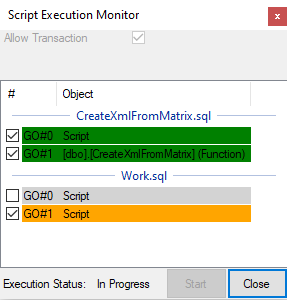
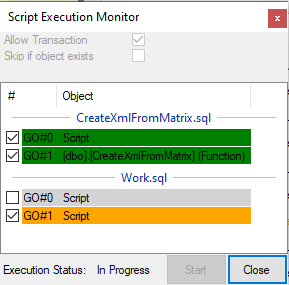
#19 Skip object creation if exists in DB - Adding check box to Script Execution Monitor - logic to set skip option to Script Loader - move script execution log logic from ScriptLoader to Script applier - creating script command enumeration to ensure the command strings are the same for both initiato

diff --git a/SqlScriptRunner/SqlScriptRunner/ScriptHandler/ScriptLoader.cs b/SqlScriptRunner/SqlScriptRunner/ScriptHandler/ScriptLoader.cs
@@ -7,6 +7,7 @@ using System.Data.SqlClient;
 using System.IO;
 using System.Linq;
 using System.Text;
+using System.Text.RegularExpressions;
 using System.Threading;
 using System.Threading.Tasks;
 using System.Windows.Forms;
@@ -29,6 +30,8 @@ namespace SqlScriptRunner.ScriptHandler
         public List<Script> ScriptFileList => scriptFileList;
         public bool WithTransaction { get; set; }
         public bool IsCompleted => !scriptSections?.Any(ss => ss.Status == null || ss.Status == ExecutionStatusEnum.Running) ?? true;
+
+        public bool SkipObjectIfExists { get; set; }
 
         private Action<string, LogLevelEnum?> LogAction;
         internal delegate void StatusCallBackDelegate(ScriptSection script);
@@ -138,30 +141,42 @@ namespace SqlScriptRunner.ScriptHandler
                         }
                         else
                         {
-                            currScriptSection.Status = (ExecutionStatusEnum)scriptApplyer.Execute(db, currScriptSection.OriginalContent, cancellationToken);
+                            currScriptSection.Status = (ExecutionStatusEnum)scriptApplyer.Execute(db, currScriptSection, cancellationToken);
                             if (currScriptSection.Status != ExecutionStatusEnum.Completed)
                             {
                                 // There could be several scenario why we should not abort the operation.
                                 // TODO: Inspect the error message from the script applier and inject a drop section or empty body creation before retry function and procedure creation.
                                 // TODO: Table types in use needs special handling to replace!
                                 // Example: Cannot drop type 'dbo.MatrixType' because it is being referenced by object 'CreateXmlFromMatrix'. There may be other objects that reference this type.
-
-                                message = $"Execution failed: '{currScriptSection.FilePath}', GO#{currScriptSection.SectionId}";
-                                currScriptSection.MessageLog?.Add(message);
-                                ExecutionLogAction?.Invoke(message, LogLevelEnum.Error);
-                                currScriptSection.MessageLog?.AddRange(scriptApplyer.Errors.Cast<SqlError>().Select(se => $"ERROR:{se.Message}"));
-                                if (WithTransaction)
+                                if (SkipObjectIfExists)
                                 {
-                                    scriptApplyer.RollBackTransaction();
-                                    message = "Rolling back all actions";
-                                    currScriptSection.MessageLog?.Add(message);
-                                    ExecutionLogAction?.Invoke(message, LogLevelEnum.Warn);
+                                    // check the log for specific error message look for error for existing object.
+                                    if (IsObjectAllreadyExistsError(currScriptSection))
+                                    {
+                                        currScriptSection.Status = ExecutionStatusEnum.Skipped;
+                                        message = $"Execution skipped: '{currScriptSection.FilePath}', GO#{currScriptSection.SectionId}";
+                                        currScriptSection.MessageLog?.Add(message);
+                                        ExecutionLogAction?.Invoke(message, LogLevelEnum.Warn);
+                                        statusCallBack.Invoke(currScriptSection);
+                                    }
                                 }
-                                statusCallBack.Invoke(currScriptSection);
-                                break;
+                                if (currScriptSection.Status != ExecutionStatusEnum.Skipped)
+                                {
+                                    message = $"Execution failed: '{currScriptSection.FilePath}', GO#{currScriptSection.SectionId}";
+                                    currScriptSection.MessageLog?.Add(message);
+                                    ExecutionLogAction?.Invoke(message, LogLevelEnum.Error);
+                                    if (WithTransaction)
+                                    {
+                                        scriptApplyer.RollBackTransaction();
+                                        message = "Rolling back all actions";
+                                        currScriptSection.MessageLog?.Add(message);
+                                        ExecutionLogAction?.Invoke(message, LogLevelEnum.Warn);
+                                    }
+                                    statusCallBack.Invoke(currScriptSection);
+                                    break;
+                                }
                             }
                         }
-                        currScriptSection.MessageLog?.AddRange(scriptApplyer.Messages);
                         message = $"Execution completed: '{currScriptSection.FilePath}', GO#{currScriptSection.SectionId}";
                         currScriptSection.MessageLog?.Add(message);
                         ExecutionLogAction?.Invoke(message, LogLevelEnum.Debug);
@@ -266,6 +281,35 @@ namespace SqlScriptRunner.ScriptHandler
         private void Log(string message, LogLevelEnum logLevel)
         {
             LogAction?.Invoke(message, logLevel);
+        }
+
+        private bool IsObjectAllreadyExistsError(ScriptSection scriptSection)
+        {
+            bool result = false;
+
+            if (scriptSection != null && scriptSection.MessageLog.Any(m => m.StartsWith("ERROR: ")))
+            {
+
+                Regex regEx;
+                if (string.IsNullOrEmpty(scriptSection.ObjectName))
+                {
+                    regEx = new Regex(@"((There is already an object named)|(The type)) '.+?' ((in the database)|(already exists))", RegexOptions.Compiled);
+                    result = scriptSection.MessageLog.Any(m => regEx.IsMatch(m));
+                }
+                else
+                {
+                    // make sure it is the same object
+                    regEx = new Regex(@"(?<=((There is already an object named)|(The type)) ')(.+?)(?=' ((in the database)|(already exists)))", RegexOptions.Compiled);
+                    var match = scriptSection.MessageLog.Select(ml => regEx.Match(ml)).FirstOrDefault(m => m.Success);
+                    if (match != null)
+                    {
+                        result = scriptSection.ObjectName.Contains(match.Value);
+                    }
+                }
+                
+            }
+
+            return result;
         }
     }
 }

diff --git a/SqlScriptRunner/SqlScriptRunner/Forms/ScriptExecutionMonitorForm.cs b/SqlScriptRunner/SqlScriptRunner/Forms/ScriptExecutionMonitorForm.cs
@@ -80,8 +80,7 @@ namespace SqlScriptRunner.Forms
                 // if all script has a status than it is completed
                 if (ScriptLoader.IsCompleted)
                 {
-                    buttonStart.Enabled = true;
-                    checkBoxAllowTransaction.Enabled = true;
+                    SetSettingsAccess(true);
                     labelStatusText.Text = "Completed";
                 }
                 else
@@ -90,6 +89,14 @@ namespace SqlScriptRunner.Forms
                 }
                 Application.DoEvents(); // give time to UI to make updates
             }
+        }
+        
+        private void SetSettingsAccess(bool enabled)
+        {
+            // collect all settings to enable and disable:
+            buttonStart.Enabled = enabled;
+            checkBoxAllowTransaction.Enabled = enabled;
+            checkBoxSkipIfExists.Enabled = enabled;
         }
 
         private void ScriptExecutionMonitorForm_Load(object sender, EventArgs e)
@@ -138,7 +145,7 @@ namespace SqlScriptRunner.Forms
         {
             try
             {
-                commandAction?.Invoke(ScriptLoader, "Cancel");
+                commandAction?.Invoke(ScriptLoader, ScriptCommandEnum.Cancel.ToString());
                 this.Close();
             }
             catch (Exception ex)
@@ -152,9 +159,10 @@ namespace SqlScriptRunner.Forms
         {
             try
             {
-                commandAction?.Invoke(ScriptLoader, "Start");
-                buttonStart.Enabled = false;
-                checkBoxAllowTransaction.Enabled = false; // do not change the transaction state when it is running
+                commandAction?.Invoke(ScriptLoader, ScriptCommandEnum.Start.ToString());
+                // do not change the transaction state when it is running
+                SetSettingsAccess(false);                
+                
                 labelStatusText.Text = "Started";
             }
             catch (Exception ex)
@@ -168,7 +176,7 @@ namespace SqlScriptRunner.Forms
         {
             try
             {
-                commandAction?.Invoke(ScriptLoader, $"Transaction:{checkBoxAllowTransaction.Checked}");
+                commandAction?.Invoke(ScriptLoader, $"{ScriptCommandEnum.Transaction}:{checkBoxAllowTransaction.Checked}");
             }
             catch (Exception ex)
             {
@@ -200,8 +208,21 @@ namespace SqlScriptRunner.Forms
             {
                 if (e.Item.Tag is ScriptSection scriptSection)
                 {
-                    commandAction?.Invoke(ScriptLoader, $"SetSkip:{scriptSection.Script.Guid}:{scriptSection.SectionId}:{!e.Item.Checked}");
+                    commandAction?.Invoke(ScriptLoader, $"{ScriptCommandEnum.SetSkip}:{scriptSection.Script.Guid}:{scriptSection.SectionId}:{!e.Item.Checked}");
                 }
+            }
+            catch (Exception ex)
+            {
+
+                this.ShowErrorMessage(ex);
+            }
+        }
+
+        private void checkBoxSkipIfExists_CheckedChanged(object sender, EventArgs e)
+        {
+            try
+            {
+                commandAction?.Invoke(ScriptLoader, $"{ScriptCommandEnum.SkipIfExists}:{checkBoxSkipIfExists.Checked}");
             }
             catch (Exception ex)
             {

diff --git a/SqlScriptRunner/SqlScriptRunner/SqlScriptRunnerMain.cs b/SqlScriptRunner/SqlScriptRunner/SqlScriptRunnerMain.cs
@@ -686,30 +686,38 @@ namespace SqlScriptRunner
         {
             //implement Start, Cancel commands, Setting settings separated with (:) colon.
             var subCommand = command.Split(':');
-            
-            switch (subCommand[0])
+            ScriptCommandEnum baseCommands = ScriptCommandEnum.Nothing;
+            _ = Enum.TryParse(subCommand[0], out baseCommands);
+            switch (baseCommands)
             {
-                case "Start":
+                case ScriptCommandEnum.Start:
                     // Start the asynchronous procedure to apply DB scripts into database. Use Cancellation token.
                     richTextBoxGeneratedContent.Clear();
                     ExecutionLogAction($"Start executing sequence with{(scriptLoader.WithTransaction ? "" : "out")} transaction", LogLevelEnum.Info);
                     scriptLoader.ApplyScriptsToDatabase(dbContext, ExecutionLogAction, scriptStatusCallBack, cancellationTokenSourceSql.Token);
                     break;
-                case "Cancel":
+                case ScriptCommandEnum.Cancel:
                     // Cancel and roll back
                     cancellationTokenSourceSql.Cancel(throwOnFirstException: true);
                     break;
-                case "Transaction":
+                case ScriptCommandEnum.Transaction:
                     scriptLoader.WithTransaction = subCommand.Length > 1 ? bool.Parse(subCommand[1]) : true;
                     break;
-                case "SetSkip":
-                    var scriptName = Guid.Parse(subCommand[1]);
-                    var sectionId = int.Parse(subCommand[2]);
-                    var ToBeScipped = bool.Parse(subCommand[3]);
-                    // Find and set the new status for the addressed script section.
-                    scriptLoader.SetScriptSectionSkipState(scriptName, sectionId, ToBeScipped);
+                case ScriptCommandEnum.SetSkip:
+                    if (subCommand.Length >= 4)
+                    {
+                        var scriptName = Guid.Parse(subCommand[1]);
+                        var sectionId = int.Parse(subCommand[2]);
+                        var ToBeScipped = bool.Parse(subCommand[3]);
+                        // Find and set the new status for the addressed script section.
+                        scriptLoader.SetScriptSectionSkipState(scriptName, sectionId, ToBeScipped);
+                    }
+                    break;
+                case ScriptCommandEnum.SkipIfExists:
+                    scriptLoader.SkipObjectIfExists = subCommand.Length > 1 ? bool.Parse(subCommand[1]) : true;
                     break;
                 default:
+                    // DO nothing
                     break;
             }
         }

diff --git a/SqlScriptRunner/SqlScriptRunner/Forms/ScriptExecutionMonitorForm.Designer.cs b/SqlScriptRunner/SqlScriptRunner/Forms/ScriptExecutionMonitorForm.Designer.cs
@@ -40,6 +40,7 @@
             this.listViewExecution = new System.Windows.Forms.ListView();
             this.columnHeader1 = ((System.Windows.Forms.ColumnHeader)(new System.Windows.Forms.ColumnHeader()));
             this.columnHeader2 = ((System.Windows.Forms.ColumnHeader)(new System.Windows.Forms.ColumnHeader()));
+            this.checkBoxSkipIfExists = new System.Windows.Forms.CheckBox();
             this.panelHeader.SuspendLayout();
             this.panelOptions.SuspendLayout();
             this.panelStatus.SuspendLayout();
@@ -57,6 +58,7 @@
             // 
             // panelOptions
             // 
+            this.panelOptions.Controls.Add(this.checkBoxSkipIfExists);
             this.panelOptions.Controls.Add(this.checkBoxAllowTransaction);
             this.panelOptions.Dock = System.Windows.Forms.DockStyle.Fill;
             this.panelOptions.Location = new System.Drawing.Point(0, 0);
@@ -172,6 +174,19 @@
             // 
             this.columnHeader2.Text = "Object";
             // 
+            // checkBoxSkipIfExists
+            // 
+            this.checkBoxSkipIfExists.CheckAlign = System.Drawing.ContentAlignment.MiddleCenter;
+            this.checkBoxSkipIfExists.Dock = System.Windows.Forms.DockStyle.Top;
+            this.checkBoxSkipIfExists.Location = new System.Drawing.Point(0, 16);
+            this.checkBoxSkipIfExists.Name = "checkBoxSkipIfExists";
+            this.checkBoxSkipIfExists.Padding = new System.Windows.Forms.Padding(0, 0, 10, 0);
+            this.checkBoxSkipIfExists.Size = new System.Drawing.Size(288, 16);
+            this.checkBoxSkipIfExists.TabIndex = 1;
+            this.checkBoxSkipIfExists.Text = "Skip if object exists";
+            this.checkBoxSkipIfExists.UseVisualStyleBackColor = true;
+            this.checkBoxSkipIfExists.CheckedChanged += new System.EventHandler(this.checkBoxSkipIfExists_CheckedChanged);
+            // 
             // ScriptExecutionMonitorForm
             // 
             this.AcceptButton = this.buttonStart;
@@ -211,5 +226,6 @@
         private System.Windows.Forms.Panel panelOptions;
         private System.Windows.Forms.Panel panelStatus;
         private System.Windows.Forms.CheckBox checkBoxAllowTransaction;
+        private System.Windows.Forms.CheckBox checkBoxSkipIfExists;
     }
 }

diff --git a/SqlScriptRunner/SqlScriptRunner/Database/ApplyScript.cs b/SqlScriptRunner/SqlScriptRunner/Database/ApplyScript.cs
@@ -13,6 +13,25 @@ namespace SqlScriptRunner.Database
     internal class ApplyScript : QueryBase
     {
         private bool isDone=false;
+        private ScriptSection currentScriptSection;
+        public object Execute(DbContext dbContext, ScriptSection scriptSection, params object[] args)
+        {
+            currentScriptSection = scriptSection;
+            return Execute(dbContext, scriptSection.OriginalContent, args);
+        }
+        internal override void SqlConnection_InfoMessage(object sender, SqlInfoMessageEventArgs e)
+        {
+            base.SqlConnection_InfoMessage(sender, e);
+            if (e.Errors.Count > 0)
+            {
+                currentScriptSection?.MessageLog
+                    .AddRange(e.Errors.Cast<SqlError>().Select(err => $"{(err.Number == 0 ? "INFO" : "ERROR")}: {err.Message}"));
+            }
+            else
+            {
+                currentScriptSection?.MessageLog.Add($"INFO: {e.Message}");
+            }
+        }
         public override object Execute(DbContext dbContext, string cmdText, params object[] args)
         {
             if (SqlConnection == null)

diff --git a/SqlScriptRunner/SqlScriptRunner/ScriptHandler/ScriptCommandEnum.cs b/SqlScriptRunner/SqlScriptRunner/ScriptHandler/ScriptCommandEnum.cs
@@ -1,0 +1,19 @@
+using System;
+using System.Collections.Generic;
+using System.Linq;
+using System.Text;
+using System.Threading.Tasks;
+using System.Windows.Forms;
+
+namespace SqlScriptRunner.ScriptHandler
+{
+    internal enum ScriptCommandEnum
+    {
+        Nothing,
+        Start,
+        Cancel,
+        Transaction,
+        SetSkip,
+        SkipIfExists,
+    }
+}

diff --git a/SqlScriptRunner/SqlScriptRunner/Properties/AssemblyInfo.cs b/SqlScriptRunner/SqlScriptRunner/Properties/AssemblyInfo.cs
@@ -34,4 +34,4 @@ using System.Runtime.InteropServices;
 // [assembly: AssemblyVersion("1.0.*")]
 [assembly: AssemblyVersion("1.0.1.0")]
 [assembly: AssemblyFileVersion("1.0.1.0")]
-[assembly: AssemblyInformationalVersion("1.0.1-alpha04")]
+[assembly: AssemblyInformationalVersion("1.0.1-alpha05")]

diff --git a/SqlScriptRunner/UsersGuide/UsersGuide.md b/SqlScriptRunner/UsersGuide/UsersGuide.md
@@ -45,6 +45,7 @@ Date|Version|Description
   - [Button "Apply To DB"](#button-apply-to-db)
   - [Script Execution Monitor](#script-execution-monitor)
     - [Checkbox "Allow Transaction"](#checkbox-allow-transaction)
+    - [Checkbox "Skip if object exists"](#checkbox-skip-if-object-exists)
     - [Button "Start"](#button-start)
     - [Button "Close"](#button-close)
   - [Closure and usage](#closure-and-usage)
@@ -205,6 +206,20 @@ In the top part showing up some settings. In the list view control we see all se
 This setting determines if the application should start a transaction when it starts to deploy the configured script sections.
 
 Default value: checked
+
+### Checkbox "Skip if object exists"
+
+This option allows to continue the script execution if the database is sending back error message:
+
+*There is already an object named '...' in the database.*
+
+OR
+
+*The type '...' already exists, or you do not have permission to create it.*
+
+The identified object must be under the same name as the object named in the error message.
+
+The skipped script will be marked as gray in Script Execution monitor and the skipping action is logged after the error message.
 
 ### Button "Start"
 
